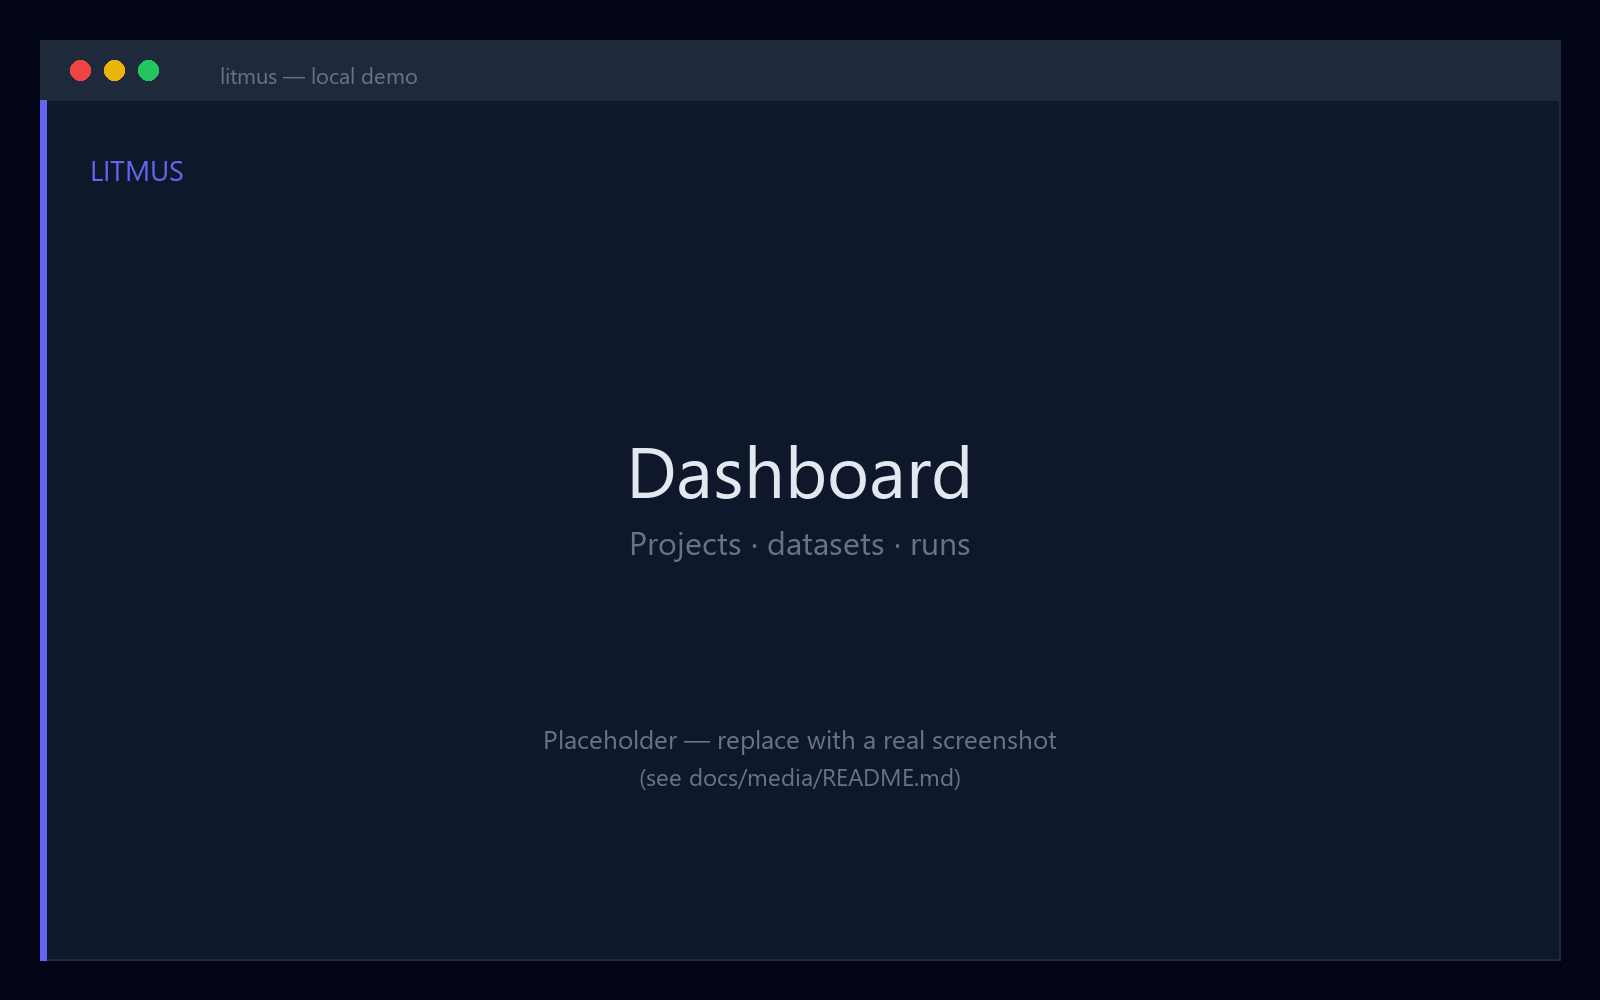
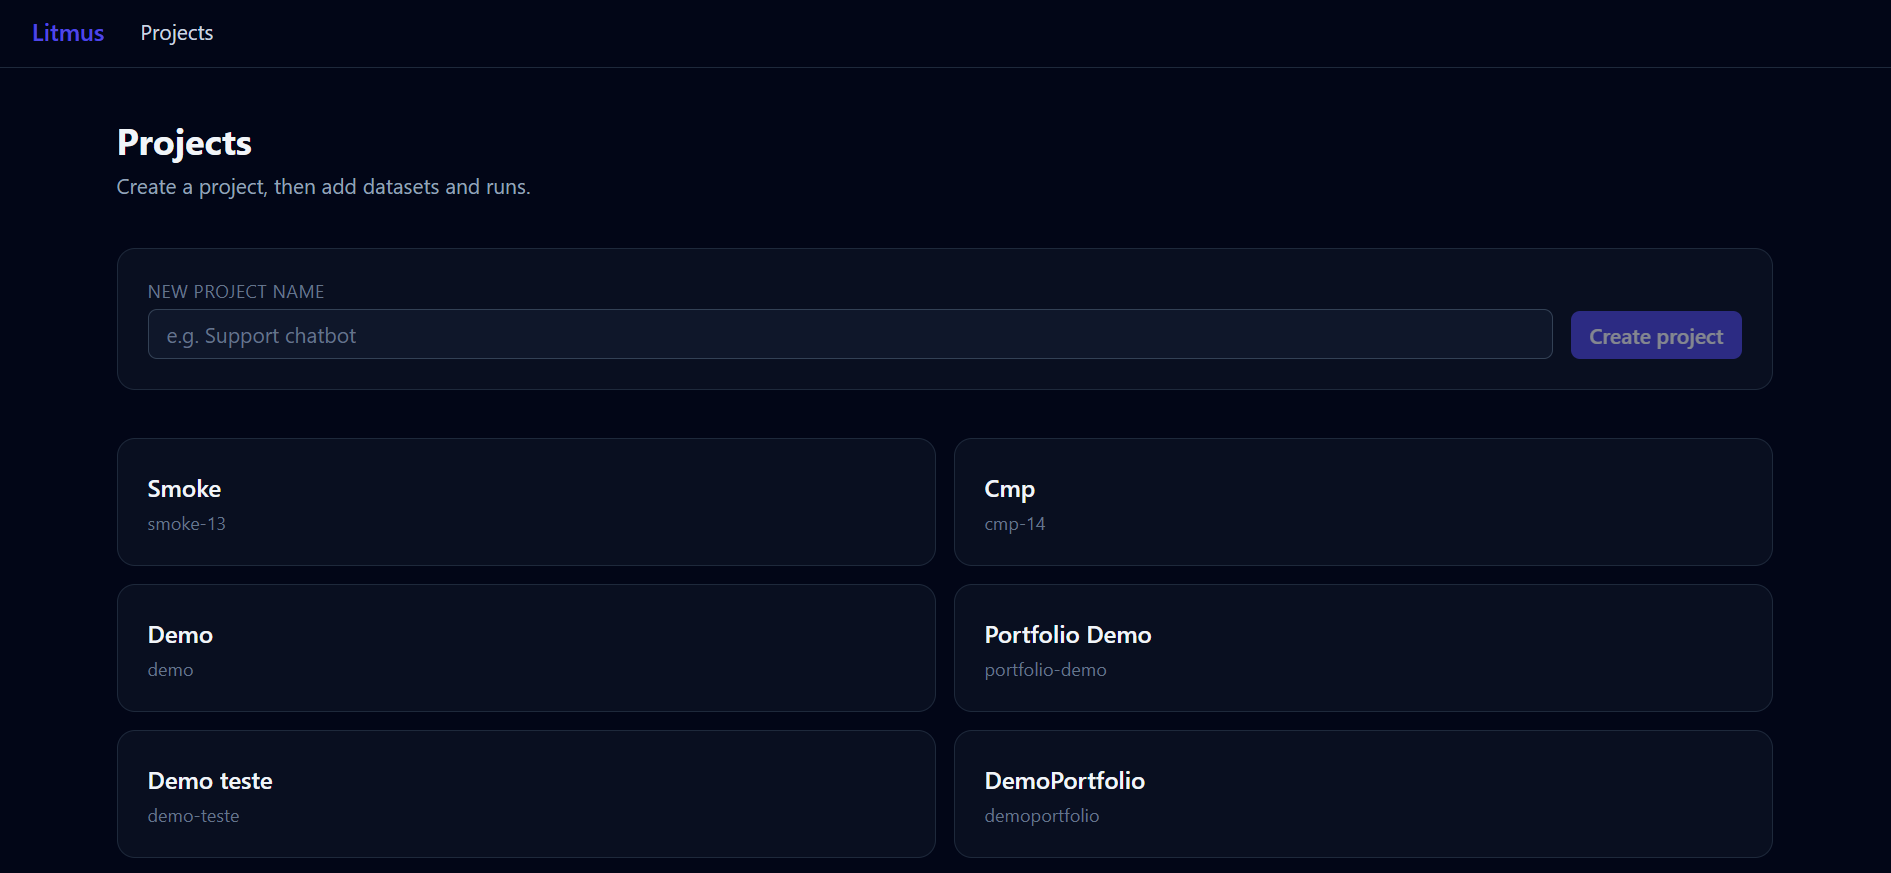
docs(media): real demo screenshots with meaningful names
Rename the captured screenshots to landing/dashboard/dataset/runs/compare/compare-cases.png, drop the redundant project view and the old placeholders, and describe each in docs/media/README.md.

diff --git a/docs/media/README.md b/docs/media/README.md
@@ -1,32 +1,24 @@
 # Screenshots
 
-The `.png` files here are **labeled placeholders**. Replace each with a real
-screenshot of your running instance for a portfolio-ready README.
+Real screenshots of the local Docker demo, referenced from the top-level
+[`README.md`](../../README.md). All values are computed by the app (the `scripted`
+fixture provider) — nothing is faked.
 
-## Seed the demo data first (2 minutes)
-
-1. `docker compose up --build`, then open `http://localhost:3000`.
-2. **Projects** → create `Portfolio Demo`.
-3. Open it → create a dataset `General knowledge QA`.
-4. Open the dataset → **Add cases (CSV)** → paste the contents of
-   [`examples/datasets/demo_qa.csv`](../../examples/datasets/demo_qa.csv) → Upload.
-5. **Launch a run** → provider `scripted`, model **`mock-small`**, Exact match → Run.
-   (~**83%** success.)
-6. Go back to the dataset → **Launch a run** again → model **`mock-large`** → Run.
-   (**100%** success.)
-
-## What each screenshot should show
-
-| File | Page | Expected values |
+| File | Page | Shows |
 | --- | --- | --- |
-| `dashboard.png` | The dataset page (or Projects) | The 12-case table + the "Launch a run" form + the runs list with two runs (100% and 83%). |
-| `runs.png` | Run detail of **Run #2 (mock-large)** | Success **100%**, latency P50/P95 (~197/257 ms), cost (~$0.004), 12 cases, all-PASS table. |
-| `metrics.png` | Run detail metric cards (Run #2), close-up | Success **100%** with **95% CI [100%, 100%]**, latency, cost, cases. |
-| `compare.png` | `/compare` (base = Run #1, candidate = Run #2) | Verdict **PASS**, success **+16.7%**, **2 improvements** highlighted green, latency/cost deltas. |
+| `landing.png` | Landing (`/`) | Hero + the three pillars (Evaluate shipped). |
+| `dashboard.png` | Projects (`/projects`) | The projects list and the create-project form. |
+| `dataset.png` | Dataset detail | The 12 test cases (input → expected). |
+| `runs.png` | Dataset detail | The "Launch a run" form, the runs list (100% vs 83.3%), and the compare launcher. |
+| `compare.png` | Comparison (`/compare`) | A −16.7% drop flagged as a **regression**, with success/latency deltas. |
+| `compare-cases.png` | Comparison (`/compare`) | The per-case diff with the two regressed cases highlighted. |
 
-## Tips
+## Refreshing the screenshots
 
-- Use a dark browser theme (the dashboard is dark by default).
-- Keep a consistent window width (~1600px) so images align in the README grid.
-- Screenshot shortcuts: Windows `Win+Shift+S`, macOS `Cmd+Shift+4`, Linux your tool.
-- Save with the **exact filenames above** (overwrite the placeholders).
+1. `docker compose up --build` and open `http://localhost:3000`.
+2. Follow the **Portfolio Demo** steps in the top-level README to seed a project,
+   the demo dataset (`examples/datasets/demo_qa.csv`), and two runs
+   (`mock-large` → 100%, `mock-small` → 83.3%).
+3. Retake the screenshots and overwrite the files above (keep the same names).
+   Use a dark browser theme and a consistent window width (~1600px) so the grid
+   in the README stays aligned.